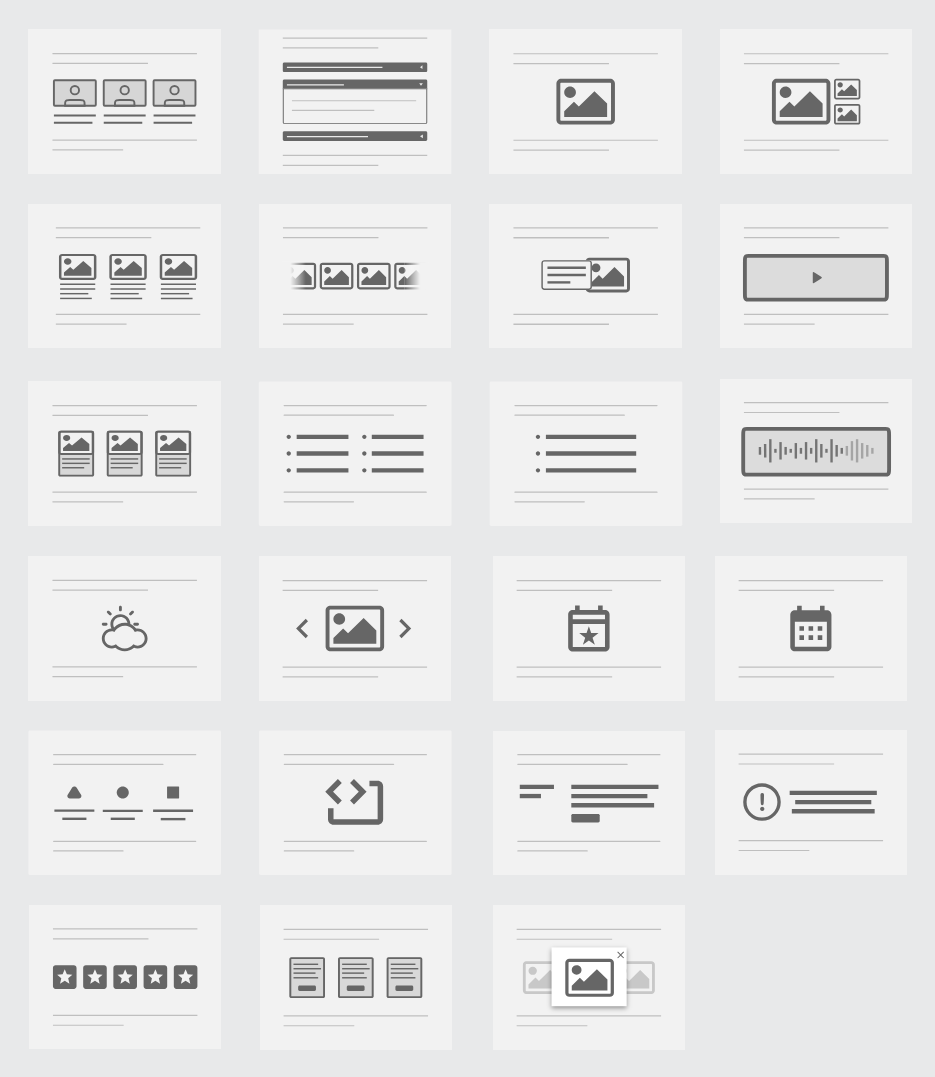
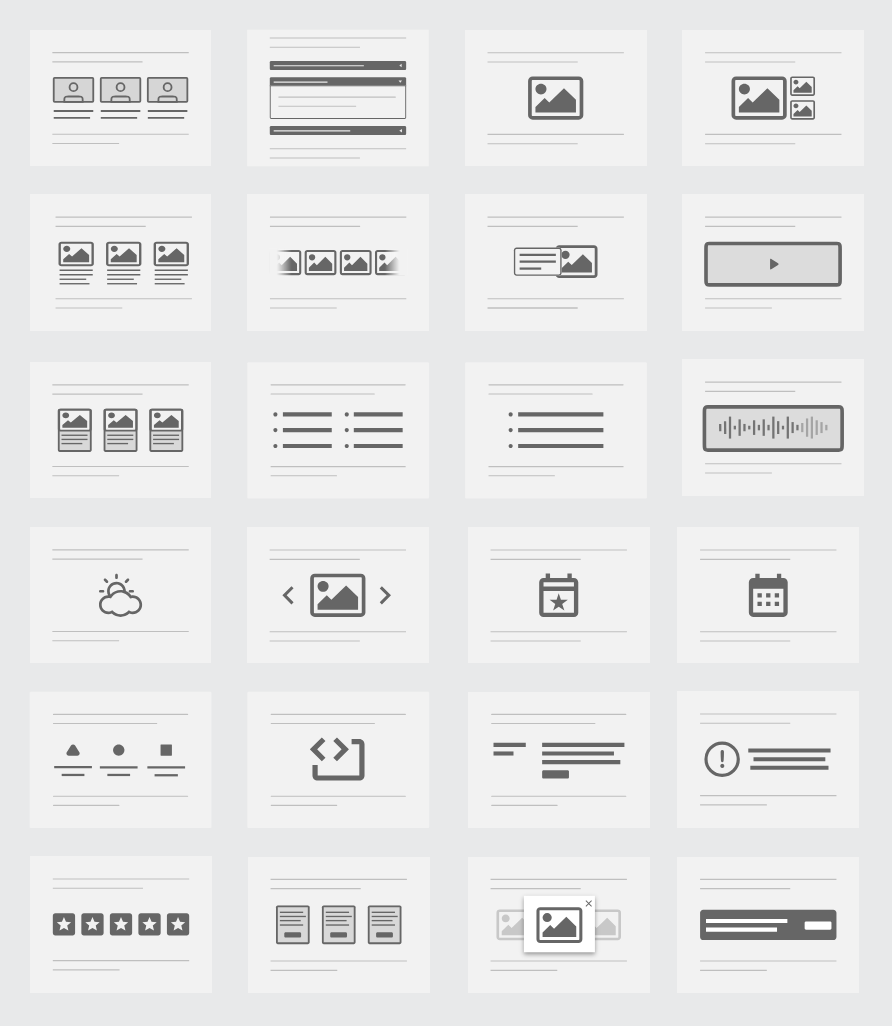
Add Callout Button, update README, update preview image

diff --git a/README.md b/README.md
@@ -12,7 +12,7 @@ SVGs created and edited using [PenPot](https://penpot.app/), an open source appl
 - Audio
 - Bios
 - Calendar
-- Calendar
+- Callout Button
 - Calendar Events
 - Call To Action
 - Card Over Image
